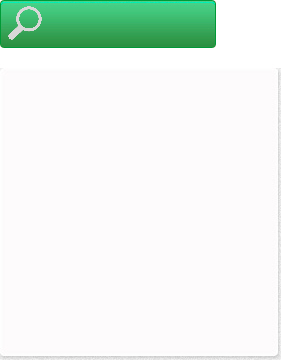
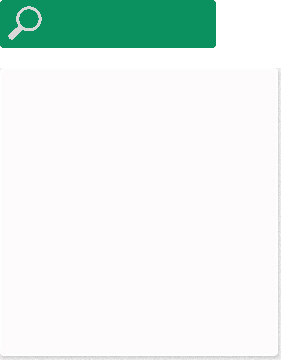
Search page created and linked

Changed region(s): [[0.0, 0.0, 0.7687, 0.1528]]

diff --git a/website/search.html b/website/search.html
@@ -1,0 +1,42 @@
+<!DOCTYPE html>
+<!-- Website template by freewebsitetemplates.com -->
+<html>
+	<head>
+		<meta http-equiv="Content-Type" content="text/html; charset=utf-8"/>
+		<title>Health Haven</title>
+		<link rel="stylesheet" href="css/style.css" type="text/css" />
+		<!--[if IE 7]>
+			<link rel="stylesheet" href="css/ie7.css" type="text/css" />
+		<![endif]-->
+	</head>
+	<body>
+		<div class="page">
+			<div class="header">
+				<a href="index.html" id="logo"><img src="images/facebook_cover_photo_2.png" alt=""/></a>
+				<ul>
+					<li class="selected"><a href="index.html">Home</a></li>
+					<li><a href="#">About</a></li>
+					<li><a href="#">Doctors</a></li>
+					<li><a href="#">Services</a></li>
+				</ul>
+			</div>
+			<div class="body">
+				<h3><b>This is where I would put some articels. IF I HAD ANY.</b></h3>
+			</div>
+			<div class="footer">
+				<ul>
+					<li><a href="index.html">Home</a></li>
+					<li><a href="#">About</a></li>
+					<li><a href="#">Doctors</a></li>
+					<li><a href="#">Services</a></li>
+				</ul>
+				<p>&#169; Copyright &#169; 2019. Health Haven</p>
+				<div class="connect">
+					<a href="#" id="facebook">facebook</a>
+					<a href="#" id="twitter">twitter</a>
+					<a href="#" id="vimeo">vimeo</a>
+				</div>
+			</div>
+		</div>
+	</body>
+</html>  

diff --git a/website/index.html b/website/index.html
@@ -26,7 +26,7 @@
 					<p>Let us help you find out! We offer a vast database of medical publishings, as well as the ability to schedule appointments and consultations with a number of medical professionals, local and abroad. If you've got scary symptoms, we've got the answers you're looking for!</p>
 					<input type="text" name="Medical" placeholder="Search for terms... ">
 					<br>
-					<input id="search" type="button" value="  Search""/>
+					<input id="search" type="button" value="  Search" onclick="window.location.href='./search.html'" "/>
 				</div>
 			</div>
 			<div class="footer">

diff --git a/website/css/style.css b/website/css/style.css
@@ -113,7 +113,7 @@ body{
     width:216px;
 	font-family: var(--font-name);
 	font-style: normal;
-	color:#fff;
+	color:#d8d8d8;
 	font-size:30px;
 	margin:28px 0 0 125px;
 	cursor:pointer;
